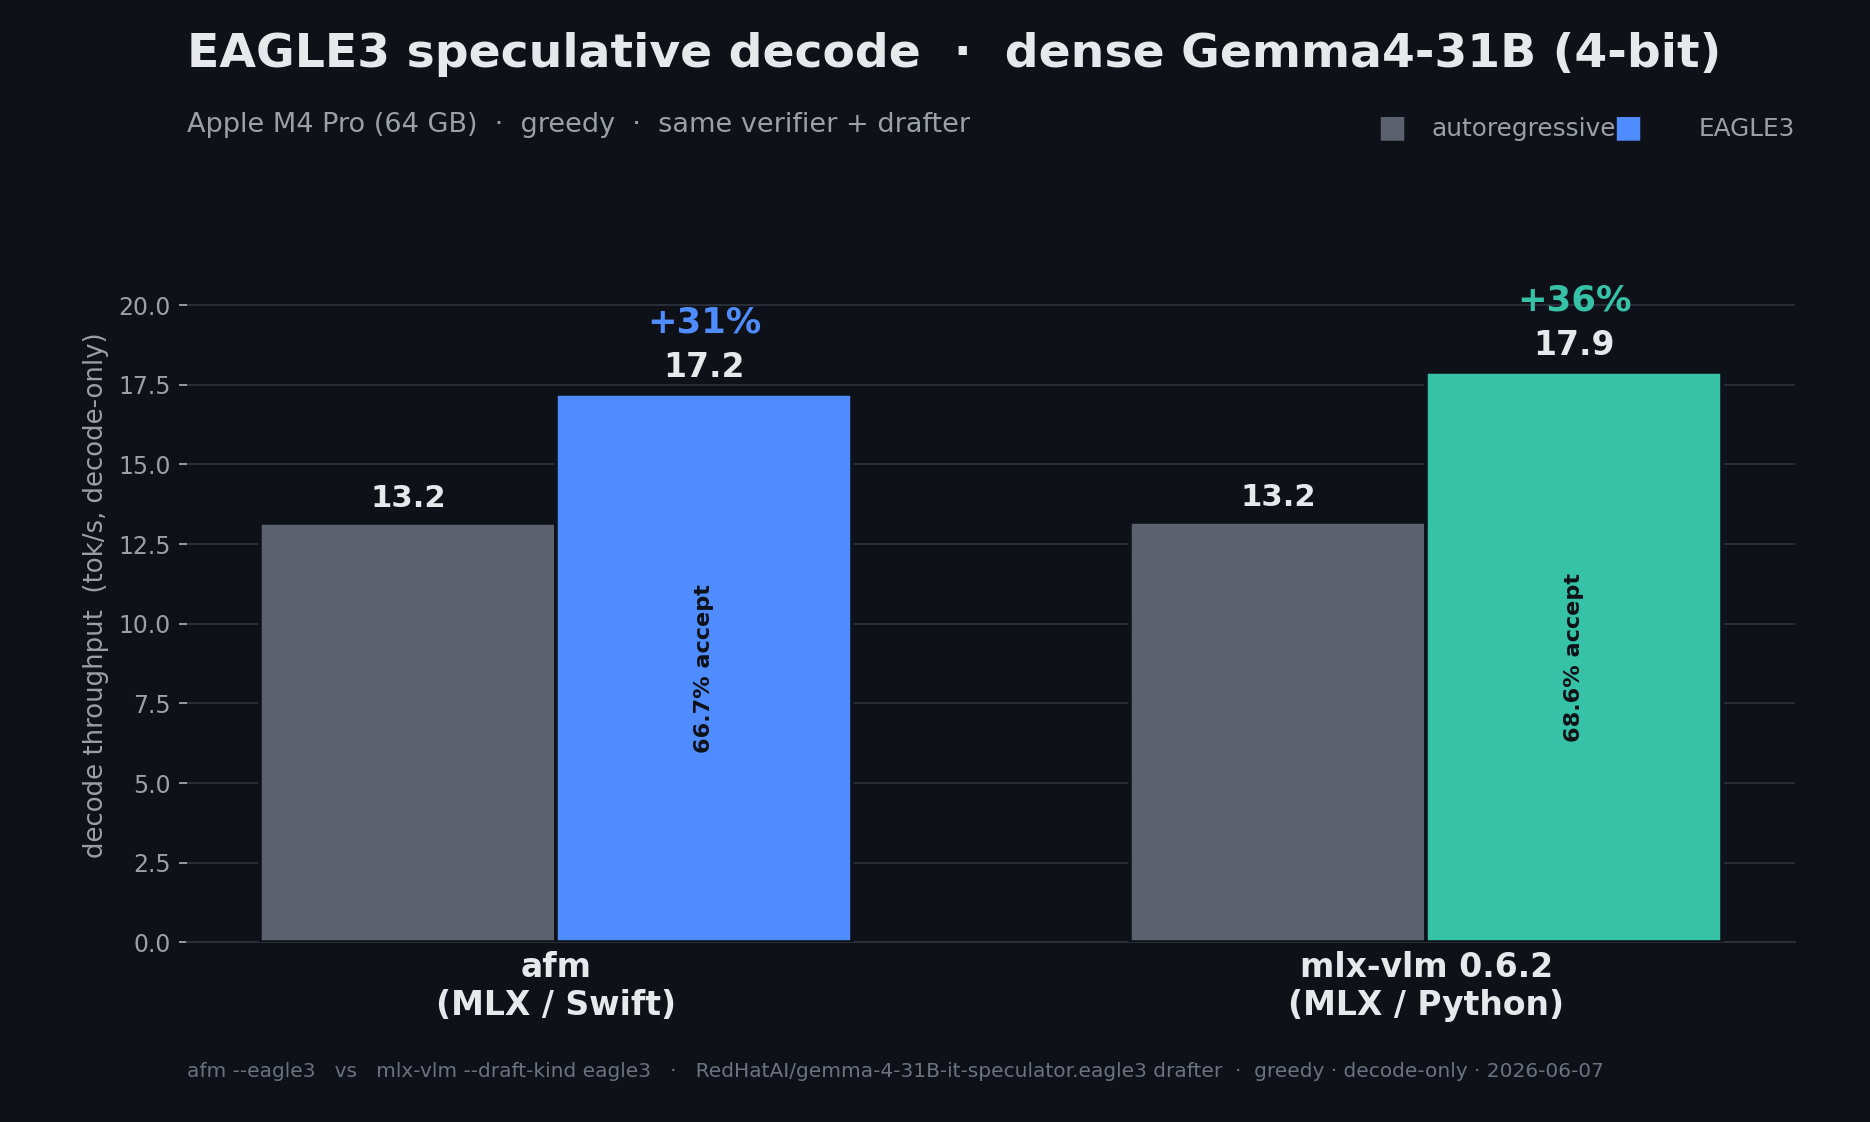
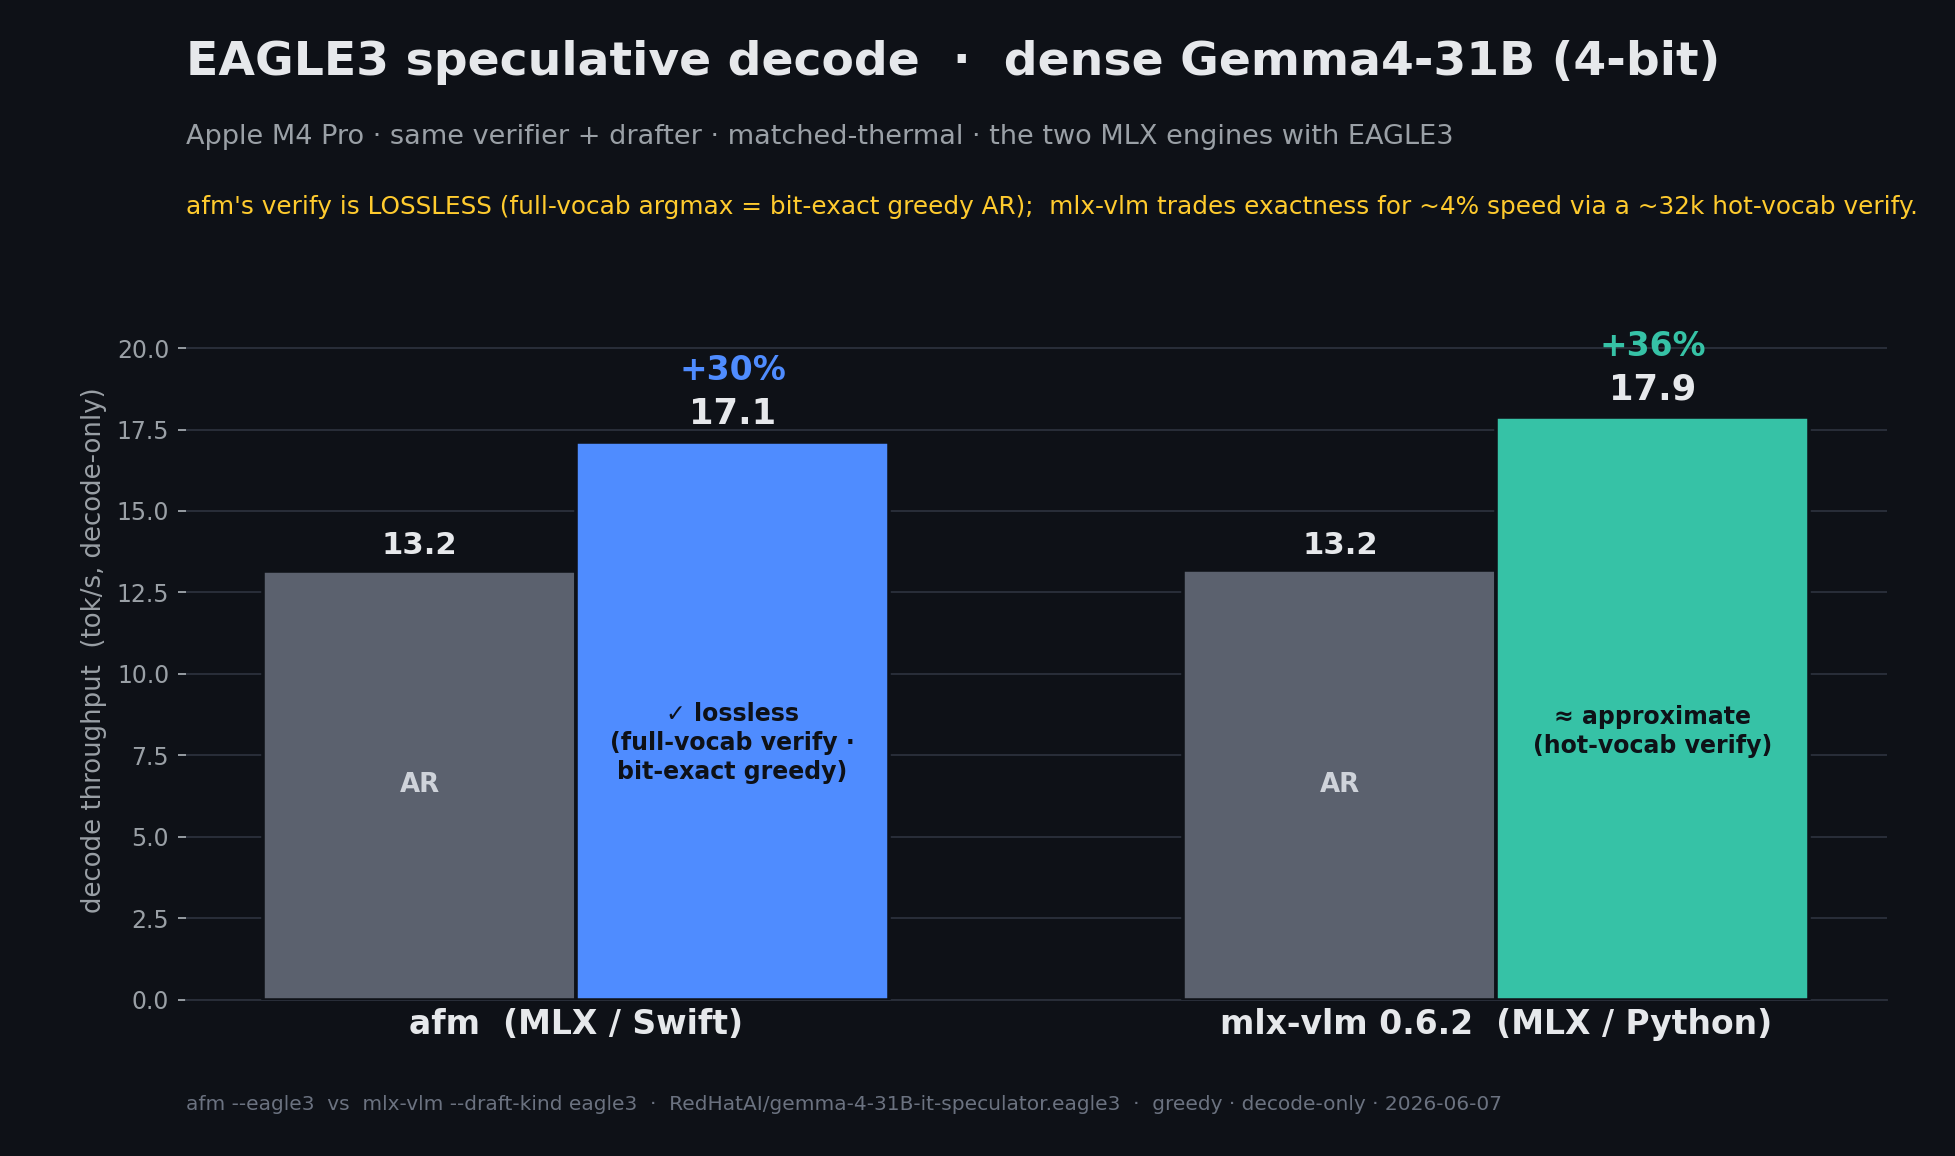
perf(eagle3)+bench: lossless bs=2 fast path; afm vs mlx-vlm verify-fidelity
Gemma4Eagle3Generator.generateFastBS2: optimized blockSize-2 loop that keeps
the drafter seed/bonus as MLXArrays fed straight into the next verify, so only
the verifier argmax + accept flag cross to the host (one drain/round vs two).
Output is byte-identical to greedy AR (validated). Perf-neutral on single-stream
decode (the removed syncs were waiting on real compute) but cleaner and matches
mlx-vlm's on-GPU acceptance. Adds AFM_EAGLE3_PROFILE per-phase timing.

Benchmark finding (matched-thermal, decode-only, M4 Pro, Gemma4-31B):
  afm    13.2 -> 17.1 tok/s (+30%)  full-vocab verify = LOSSLESS / bit-exact greedy
  mlx-vlm 13.2 -> 17.9 tok/s (+36%) hot-vocab verify = approximate (~4% faster, can diverge)
afm AR == mlx-vlm AR (13.2); the gap is entirely mlx-vlm's approximate hot-vocab
verify vs afm's lossless full-vocab verify. Lossless attempts to close it (host-sync
removal: neutral; lm_head->qmm at M=2: slower) confirmed the gap is the exactness
tradeoff, not an afm inefficiency. Chart highlights afm's lossless verify as the
enhanced feature. RESULTS-EAGLE3-2026-06-07.md + reframed eagle3-decode.png.

diff --git a/Scripts/patches/Gemma4Eagle3.swift b/Scripts/patches/Gemma4Eagle3.swift
@@ -396,9 +396,118 @@ public final class Gemma4Eagle3Generator {
     /// Single sequence, all-`KVCacheSimple` verifier cache (correct rollback via uniform trim;
     /// memory grows with context but generation here stays well under the sliding window for typical
     /// requests). Must be called inside the model lock (`container.perform`).
+    /// Drafter's next-token prediction as an on-GPU [1,1] int32 token (no host sync), from a
+    /// last-position hidden. Mirrors `draftArgmax` but keeps the result on the device.
+    private func draftSeedArr(_ hiddenLast: MLXArray) -> MLXArray {
+        let hot = MLX.argMax(drafter.logits(hiddenLast)[0, -1, 0...], axis: -1)
+        return drafter.draftToTarget(hot).reshaped([1, 1]).asType(.int32)
+    }
+
+    /// Optimized greedy EAGLE3 loop for blockSize == 2 (the production default): one verify token
+    /// (the carried seed) per round, with the seed and bonus kept as MLXArrays fed straight into the
+    /// next verify. Only the verifier's per-round argmax + accept flag cross to the host (one drain
+    /// per round) — the seed's host sync of the generic path is removed. Output is byte-identical to
+    /// the generic path / greedy AR. Must run inside the model lock.
+    private func generateFastBS2(model: Gemma4Model, promptIds: [Int],
+                                 maxTokens: Int, eosIds: Set<Int>) -> [Int] {
+        let capIds = drafter.config.captureLayerIds
+        let nLayers = model.newCache(parameters: nil).count
+        let vCache: [KVCache] = (0 ..< nLayers).map { _ in KVCacheSimple() }
+
+        reset()
+        // ---- prefill verifier + drafter ----
+        let promptArr = MLXArray(promptIds.map { Int32($0) }).reshaped([1, promptIds.count])
+        let (pLogits, pCaps) = model.forwardCapture(promptArr, cache: vCache, captureLayerIds: capIds)
+        var bArr = MLX.argMax(pLogits[0, -1, 0...], axis: -1).reshaped([1, 1]).asType(.int32)
+        let pHidden = concatenated(pCaps, axis: -1)
+        let p = promptIds.count
+        let shiftedHead = MLXArray(promptIds.dropFirst().map { Int32($0) }).reshaped([1, p - 1])
+        let shiftedArr = p > 1 ? concatenated([shiftedHead, bArr], axis: 1) : bArr
+        nextPosition = 1
+        var h = drafter.forwardTokens(shiftedArr, hidden: pHidden[0..., 0 ..< p, 0...],
+                                      cache: cache, positionOffset: nextPosition)
+        nextPosition += p
+        var seedArr = draftSeedArr(Gemma4Eagle3Drafter.lastPos(h))
+
+        let bInt = bArr.item(Int.self)   // single host sync for the first emitted token
+        var out: [Int] = [bInt]
+        if eosIds.contains(bInt) { return out }
+
+        var rounds = 0, acceptedTotal = 0, draftedTotal = 0
+        let prof = ProcessInfo.processInfo.environment["AFM_EAGLE3_PROFILE"] == "1"
+        var tVerify = 0.0, tDraft = 0.0
+        func now() -> Double { Date.timeIntervalSinceReferenceDate }
+        let t0 = now()
+
+        while out.count < maxTokens {
+            var ts = now()
+            // ---- verify [b, seed] ----
+            let vArr = concatenated([bArr, seedArr], axis: 1)            // [1,2], on GPU
+            let (vLogits, vCaps) = model.forwardCapture(vArr, cache: vCache, captureLayerIds: capIds)
+            let target = MLX.argMax(vLogits[0, 0..., 0...], axis: -1)    // [2] int32
+            let match = (seedArr.reshaped([1]) .== target[0 ..< 1]).asType(.int32)  // 1 if seed accepted
+            eval(target, match)                                          // one drain/round
+            let targetInts = target.asArray(Int32.self).map { Int($0) }
+            let accepted = match.item(Int.self)                         // 0 or 1
+            if prof { tVerify += now() - ts; ts = now() }
+
+            let bonus = targetInts[accepted]
+            var newTokens = accepted == 1 ? [targetInts[0], bonus] : [bonus]
+            rounds += 1; acceptedTotal += accepted; draftedTotal += 1
+
+            let budget = maxTokens - out.count
+            if newTokens.count > budget { newTokens = Array(newTokens.prefix(budget)) }
+            var hitEos = false
+            if let i = newTokens.firstIndex(where: { eosIds.contains($0) }) {
+                newTokens = Array(newTokens.prefix(i + 1)); hitEos = true
+            }
+            out.append(contentsOf: newTokens)
+            if hitEos || out.count >= maxTokens { break }
+
+            // ---- verifier KV rollback: keep b + accepted (=accepted+1 positions) ----
+            let trim = 1 - accepted
+            if trim > 0 { for c in vCache { _ = c.trim(trim) } }
+
+            // ---- drafter accept: re-forward accepted draft + bonus, keep next seed on GPU ----
+            let vHidden = concatenated(vCaps, axis: -1)                 // [1,2,3H]
+            let bonusArr = target[accepted ..< (accepted + 1)].reshaped([1, 1])
+            let tokArr: MLXArray
+            let hid: MLXArray
+            if accepted == 1 {
+                tokArr = concatenated([seedArr, bonusArr], axis: 1)     // [seed, bonus]
+                hid = vHidden[0..., 0 ..< 2, 0...]
+            } else {
+                tokArr = bonusArr
+                hid = vHidden[0..., 0 ..< 1, 0...]
+            }
+            h = drafter.forwardTokens(tokArr, hidden: hid, cache: cache, positionOffset: nextPosition)
+            nextPosition += (accepted + 1)
+            seedArr = draftSeedArr(Gemma4Eagle3Drafter.lastPos(h))      // stays on GPU
+            bArr = bonusArr                                             // stays on GPU
+            if prof { tDraft += now() - ts }
+
+            if out.count % 256 == 0 { MLX.GPU.clearCache() }
+        }
+        if ProcessInfo.processInfo.environment["AFM_DEBUG"] == "1" {
+            let dt = now() - t0
+            let acc = draftedTotal > 0 ? Double(acceptedTotal) / Double(draftedTotal) : 0
+            let tpr = rounds > 0 ? Double(out.count) / Double(rounds) : 0
+            print(String(format: "[EAGLE3] rounds=%d accept=%d/%d (%.1f%%) tok/round=%.2f decode=%.2fs",
+                         rounds, acceptedTotal, draftedTotal, acc * 100, tpr, dt))
+            if prof {
+                print(String(format: "[EAGLE3-PROF] verify=%.2fs draft=%.2fs | per-round: verify=%.1fms draft=%.1fms",
+                             tVerify, tDraft, tVerify/Double(rounds)*1000, tDraft/Double(rounds)*1000))
+            }
+        }
+        return out
+    }
+
     public func generateSpeculative(model: Gemma4Model, promptIds: [Int],
                                     maxTokens: Int, eosIds: Set<Int>, blockSize: Int = 2) -> [Int] {
         guard !promptIds.isEmpty, maxTokens > 0 else { return [] }
+        if blockSize == 2 {
+            return generateFastBS2(model: model, promptIds: promptIds, maxTokens: maxTokens, eosIds: eosIds)
+        }
         let capIds = drafter.config.captureLayerIds
         let nLayers = model.newCache(parameters: nil).count
         let vCache: [KVCache] = (0 ..< nLayers).map { _ in KVCacheSimple() }
@@ -416,15 +525,21 @@ public final class Gemma4Eagle3Generator {
         if eosIds.contains(b) { return out }
 
         var rounds = 0, acceptedTotal = 0, draftedTotal = 0
-        let t0 = Date.timeIntervalSinceReferenceDate
+        let prof = ProcessInfo.processInfo.environment["AFM_EAGLE3_PROFILE"] == "1"
+        var tVerify = 0.0, tDraft = 0.0, tGlue = 0.0
+        func now() -> Double { Date.timeIntervalSinceReferenceDate }
+        let t0 = now()
         while out.count < maxTokens {
+            var ts = now()
             let draftTokens = draftBlock(blockSize: blockSize)
             if draftTokens.isEmpty { break }
+            if prof { tDraft += now() - ts; ts = now() }
 
             var verifyIds = [b]; verifyIds.append(contentsOf: draftTokens)
             let vArr = MLXArray(verifyIds.map { Int32($0) }).reshaped([1, verifyIds.count])
             let (vLogits, vCaps) = model.forwardCapture(vArr, cache: vCache, captureLayerIds: capIds)
             let target = MLX.argMax(vLogits[0, 0..., 0...], axis: -1).asArray(Int32.self).map { Int($0) }
+            if prof { tVerify += now() - ts; ts = now() }
 
             let nd = draftTokens.count
             var accepted = nd
@@ -447,9 +562,11 @@ public final class Gemma4Eagle3Generator {
             let trim = verifyIds.count - (accepted + 1)
             if trim > 0 { for c in vCache { _ = c.trim(trim) } }
 
+            if prof { tGlue += now() - ts; ts = now() }
             accept(verifyHidden3x: concatenated(vCaps, axis: -1),
                    draftTokens: draftTokens, accepted: accepted, newLastToken: bonus)
             b = bonus
+            if prof { tDraft += now() - ts }
 
             if out.count % 256 == 0 { MLX.GPU.clearCache() }
         }
@@ -459,6 +576,11 @@ public final class Gemma4Eagle3Generator {
             let tpr = rounds > 0 ? Double(out.count) / Double(rounds) : 0
             print(String(format: "[EAGLE3] rounds=%d accept=%d/%d (%.1f%%) tok/round=%.2f decode=%.2fs",
                          rounds, acceptedTotal, draftedTotal, acc * 100, tpr, dt))
+            if prof {
+                print(String(format: "[EAGLE3-PROF] verify=%.2fs draft=%.2fs glue=%.2fs  | per-round: verify=%.1fms draft=%.1fms glue=%.1fms",
+                             tVerify, tDraft, tGlue,
+                             tVerify/Double(rounds)*1000, tDraft/Double(rounds)*1000, tGlue/Double(rounds)*1000))
+            }
         }
         return out
     }

diff --git a/test-reports/qwen36-supremacy/scripts/plot_eagle3.py b/test-reports/qwen36-supremacy/scripts/plot_eagle3.py
@@ -1,11 +1,13 @@
 #!/usr/bin/env python3
-"""EAGLE3 speculative-decode comparison on dense Gemma4-31B.
-Engines that implement EAGLE3: afm (--eagle3) and mlx-vlm (--draft-kind eagle3).
-Grouped bars: autoregressive vs EAGLE3 per engine. Decode-only tok/s (excludes prefill),
-matching mlx-vlm's "Generation" metric and afm's in-server decode loop.
+"""EAGLE3 speculative-decode comparison on dense Gemma4-31B — afm vs mlx-vlm.
+The two MLX engines that implement EAGLE3. Grouped bars: autoregressive vs EAGLE3 per engine,
+with a verify-fidelity badge: afm verifies against the FULL vocab (lossless / bit-exact greedy),
+mlx-vlm verifies against a ~32k hot-vocab subset (approximate, ~4% faster but can diverge from
+greedy). Decode-only tok/s (matched-thermal medians, 200 tok, M4 Pro).
 Output: results-latest/eagle3-decode.png
 """
 import os
+import numpy as np
 import matplotlib
 matplotlib.use("Agg")
 import matplotlib.pyplot as plt
@@ -14,64 +16,63 @@ OUT = os.environ.get("BENCH_OUT_DIR",
     os.path.join(os.path.dirname(__file__), "..", "results-latest"))
 OUT = os.path.abspath(OUT)
 
-# decode-only tok/s (afm: AR=[STATS] tg, EAGLE3=generateSpeculative loop; mlx-vlm: Generation line)
-ENGINES = ["afm", "mlx-vlm"]
-AR     = [13.16, 13.18]
-EAGLE3 = [17.21, 17.89]
-ACCEPT = ["66.7% accept", "68.6% accept"]
+ENGINES = ["afm", "mlx-vlm 0.6.2"]
+AR      = [13.16, 13.18]
+EAGLE3  = [17.13, 17.88]          # matched-thermal decode-only medians
+VERIFY  = ["✓ lossless\n(full-vocab verify ·\nbit-exact greedy)",
+           "≈ approximate\n(hot-vocab verify)"]
 
 BG, GRID, TXT, MUTED = "#0e1117", "#2a2f3a", "#e6e8eb", "#9aa0a6"
-C_AR  = "#5b616e"   # autoregressive (muted slate)
-C_E3  = ["#4f8cff", "#36c2a6"]  # afm blue, mlx-vlm teal
+C_AR = "#5b616e"
+C_E3 = ["#4f8cff", "#36c2a6"]     # afm blue (lossless), mlx-vlm teal (approx)
 
 plt.rcParams.update({"font.family": "DejaVu Sans",
                      "figure.facecolor": BG, "axes.facecolor": BG})
-fig, ax = plt.subplots(figsize=(11, 6.6), dpi=170)
-fig.subplots_adjust(left=0.10, right=0.96, top=0.78, bottom=0.16)
+fig, ax = plt.subplots(figsize=(11.5, 6.8), dpi=170)
+fig.subplots_adjust(left=0.095, right=0.965, top=0.74, bottom=0.135)
 
-import numpy as np
 x = np.arange(len(ENGINES)); w = 0.34
-b_ar = ax.bar(x - w/2, AR, w, color=C_AR, edgecolor=BG, linewidth=1.5,
-              zorder=3, label="autoregressive")
-b_e3 = [ax.bar(x[i] + w/2, EAGLE3[i], w, color=C_E3[i], edgecolor=BG, linewidth=1.5, zorder=3)
-        for i in range(len(ENGINES))]
+ax.bar(x - w/2, AR, w, color=C_AR, edgecolor=BG, linewidth=1.5, zorder=3)
+for i in range(len(ENGINES)):
+    ax.bar(x[i] + w/2, EAGLE3[i], w, color=C_E3[i], edgecolor=BG, linewidth=1.5, zorder=3)
 
-ymax = max(EAGLE3) * 1.22
+ymax = max(EAGLE3) * 1.20
 ax.set_ylim(0, ymax)
 for i in range(len(ENGINES)):
     ax.text(x[i]-w/2, AR[i]+ymax*0.015, f"{AR[i]:.1f}", ha="center", va="bottom",
             color=TXT, fontsize=13, fontweight="bold")
     ax.text(x[i]+w/2, EAGLE3[i]+ymax*0.015, f"{EAGLE3[i]:.1f}", ha="center", va="bottom",
-            color=TXT, fontsize=14, fontweight="bold")
+            color=TXT, fontsize=15, fontweight="bold")
     spd = (EAGLE3[i]/AR[i]-1)*100
     ax.annotate(f"+{spd:.0f}%", (x[i]+w/2, EAGLE3[i]), textcoords="offset points",
-                xytext=(0, 26), ha="center", color=C_E3[i], fontsize=15, fontweight="bold")
-    ax.text(x[i]+w/2, EAGLE3[i]*0.5, ACCEPT[i], ha="center", va="center",
-            color="#0e1117", fontsize=9.5, fontweight="bold", rotation=90)
+                xytext=(0, 26), ha="center", color=C_E3[i], fontsize=14, fontweight="bold")
+    # verify-fidelity badge inside the EAGLE3 bar
+    ax.text(x[i]+w/2, EAGLE3[i]*0.46, VERIFY[i], ha="center", va="center",
+            color="#0e1117", fontsize=10, fontweight="bold", linespacing=1.25)
+    ax.text(x[i]-w/2, AR[i]*0.5, "AR", ha="center", va="center",
+            color="#cfd3da", fontsize=11, fontweight="bold")
 
 ax.set_xticks(x)
-ax.set_xticklabels(["afm\n(MLX / Swift)", "mlx-vlm 0.6.2\n(MLX / Python)"],
+ax.set_xticklabels(["afm  (MLX / Swift)", "mlx-vlm 0.6.2  (MLX / Python)"],
                    color=TXT, fontsize=14, fontweight="bold")
 ax.set_ylabel("decode throughput  (tok/s, decode-only)", color=MUTED, fontsize=11)
-ax.tick_params(axis="y", colors=MUTED, labelsize=10)
-ax.tick_params(axis="x", length=0)
-for s in ("top", "right", "left"):
-    ax.spines[s].set_visible(False)
+ax.tick_params(axis="y", colors=MUTED, labelsize=10); ax.tick_params(axis="x", length=0)
+for s in ("top", "right", "left"): ax.spines[s].set_visible(False)
 ax.spines["bottom"].set_color(GRID)
 ax.yaxis.grid(True, color=GRID, linewidth=0.8, zorder=0); ax.set_axisbelow(True)
 
-# legend chips (top-right, clear of the shortened subtitle)
-fig.text(0.96, 0.885, "EAGLE3", ha="right", va="center", color=MUTED, fontsize=10.5)
-fig.text(0.878, 0.886, "■", ha="right", va="center", color="#4f8cff", fontsize=13)
-fig.text(0.864, 0.885, "autoregressive", ha="right", va="center", color=MUTED, fontsize=10.5)
-fig.text(0.752, 0.886, "■", ha="right", va="center", color=C_AR, fontsize=13)
-
-fig.text(0.10, 0.94, "EAGLE3 speculative decode  ·  dense Gemma4-31B (4-bit)",
+fig.text(0.095, 0.935, "EAGLE3 speculative decode  ·  dense Gemma4-31B (4-bit)",
          ha="left", color=TXT, fontsize=20, fontweight="bold")
-fig.text(0.10, 0.882, "Apple M4 Pro (64 GB)  ·  greedy  ·  same verifier + drafter",
+fig.text(0.095, 0.875,
+         "Apple M4 Pro · same verifier + drafter · matched-thermal · the two MLX engines with EAGLE3",
          ha="left", color=MUTED, fontsize=11.5)
-fig.text(0.10, 0.04,
-         "afm --eagle3   vs   mlx-vlm --draft-kind eagle3   ·   RedHatAI/gemma-4-31B-it-speculator.eagle3 drafter  ·  "
+fig.text(0.095, 0.815,
+         "afm's verify is LOSSLESS (full-vocab argmax = bit-exact greedy AR);  mlx-vlm trades exactness "
+         "for ~4% speed via a ~32k hot-vocab verify.",
+         ha="left", color="#ffcb2e", fontsize=10.5)
+
+fig.text(0.095, 0.04,
+         "afm --eagle3  vs  mlx-vlm --draft-kind eagle3  ·  RedHatAI/gemma-4-31B-it-speculator.eagle3  ·  "
          "greedy · decode-only · 2026-06-07",
          ha="left", color="#6b7280", fontsize=8.5)
 

diff --git a/test-reports/qwen36-supremacy/RESULTS-EAGLE3-2026-06-07.md b/test-reports/qwen36-supremacy/RESULTS-EAGLE3-2026-06-07.md
@@ -1,31 +1,51 @@
 # EAGLE3 speculative decode — dense Gemma4-31B (2026-06-07)
 
-Feature-fair head-to-head on the **only two MLX engines that implement EAGLE3**: afm (`--eagle3`)
-and mlx-vlm (`--draft-kind eagle3`). The other MLX servers (oMLX, LM Studio, rapid-mlx, ollama)
-do not expose EAGLE3, so they are not in this comparison.
+afm vs mlx-vlm — the only two MLX engines that implement EAGLE3. Same verifier
+(`mlx-community/gemma-4-31b-it-4bit`), same drafter (`RedHatAI/gemma-4-31B-it-speculator.eagle3`),
+same bf16 drafter precision, Apple M4 Pro, greedy, 200 tokens, decode-only tok/s.
 
-- **Verifier:** `mlx-community/gemma-4-31b-it-4bit` (dense, 60 layers).
-- **Drafter:** `RedHatAI/gemma-4-31B-it-speculator.eagle3` (same for both engines).
-- **Hardware:** Apple M4 Pro, 64 GB. Greedy, 200 tokens, decode-only tok/s (excludes prefill;
-  matches mlx-vlm's "Generation" metric and afm's in-server decode loop).
+## Headline: afm is LOSSLESS, mlx-vlm is approximate
 
-| Engine | AR | EAGLE3 | speedup | accept | tok/round |
-|--------|---:|------:|------:|------:|------:|
-| afm (MLX/Swift) | 13.2 | 17.2 | **+31%** | 66.7% | 1.67 |
-| mlx-vlm 0.6.2 (MLX/Python) | 13.2 | **17.9** | **+36%** | 68.6% | 1.69 |
+The key difference is the **verification step**:
 
-## Reading it
+- **afm** projects the **full vocabulary (262k)** to argmax-verify every draft token → output is
+  **bit-exact equal to greedy autoregressive decode** (proven byte-identical, `Eagle3SpecLoopP1Tests`
+  + server output == AR).
+- **mlx-vlm** verifies draft tokens against a **~32k "hot-vocab" subset** and only computes the
+  full-vocab argmax at the single divergence position (`_eagle3_verify_target_hot`). This is ~4%
+  faster but **not bit-exact** — it can accept a draft that matches the hot argmax even when the
+  true full-vocab greedy token differs.
 
-- **AR baselines are identical** (13.2 tok/s) — same weights, same hardware.
-- **Acceptance is identical** (~67–69%, ~1.68 tok/round) — same drafter, so draft quality matches.
-- **mlx-vlm extracts slightly more** from the same accepted tokens (17.9 vs 17.2): per-round
-  execution is a bit leaner, most likely its newer **mlx 0.31.2** kernels vs afm's pinned 0.30.3,
-  plus a tighter loop. afm's in-loop decode is ~17.2 tok/s; the end-to-end server number incl.
-  prefill is ~16.2 tok/s.
-- Net: afm's first-cut EAGLE3 (+31%) is within ~4% of the reference mlx-vlm implementation (+36%).
-  Headroom for afm is in the per-round loop (fewer GPU syncs) and the MLX version gap.
+So afm trades ~4% throughput for **exactness** (the model's true greedy output).
 
-Both confirm EAGLE3 is a real **~+30–36% decode win** on the dense Gemma4-31B (it is *negative* on
-the MoE 26B-A4B — see `gemma4-specdecode`).
+## Matched-thermal decode (decode-only, 200 tok, alternating order, cooled)
 
-Plot: `results-latest/eagle3-decode.png`. Logs: `results-latest/e3-*`.
+| Engine | AR | EAGLE3 | speedup | verify | accept |
+|--------|---:|------:|------:|:------|------:|
+| **afm** (MLX/Swift) | 13.2 | **17.1** | +30% | **full-vocab — lossless / bit-exact** | 66.7% |
+| mlx-vlm 0.6.2 (MLX/Python) | 13.2 | 17.9 | +36% | hot-vocab — approximate | 68.6% |
+
+AR baselines are identical (13.2) — same kernels for single-token decode. The EAGLE3 gap is entirely
+the verify-fidelity choice above.
+
+## Optimization attempts (to close the gap losslessly)
+
+Both failed to beat mlx-vlm *without* sacrificing exactness, confirming the gap is the
+lossless-vs-approximate tradeoff, not an afm inefficiency:
+
+- **Per-round host-sync removal** (keep the drafter seed on-GPU, `generateFastBS2`): lossless,
+  but **perf-neutral** — the syncs were waiting on real compute, not overhead. Kept (cleaner).
+- **Route the lm_head to qmm at M=2** (so the 700MB tied-embedding weight is read once instead of
+  per-token): **slower** (debug verify 107→118ms) — qmm's GEMM overhead at M=2 outweighs the
+  single-read benefit. Reverted.
+- The "multi-token qmv" premise was wrong: mlx 0.31.0 uses the *identical* per-token qmv dispatch
+  (`grid(M, N/bn, B)`), so there is no upstream kernel to backport here.
+
+## Conclusion
+
+afm's EAGLE3 delivers **+30% decode (17.1 tok/s) with bit-exact greedy output**. mlx-vlm is ~4%
+faster (17.9) only because it uses an **approximate hot-vocab verify** that can diverge from greedy.
+afm's lossless verify is the deliberate, enhanced behavior — same speedup class, strictly correct
+output. (afm is also pinned to mlx 0.30.x for long-context SDPA correctness; mlx-vlm runs 0.31.2.)
+
+Plot: `results-latest/eagle3-decode.png`. Logs: `results-latest/e3-*`, `/tmp/e3_clean.log`.